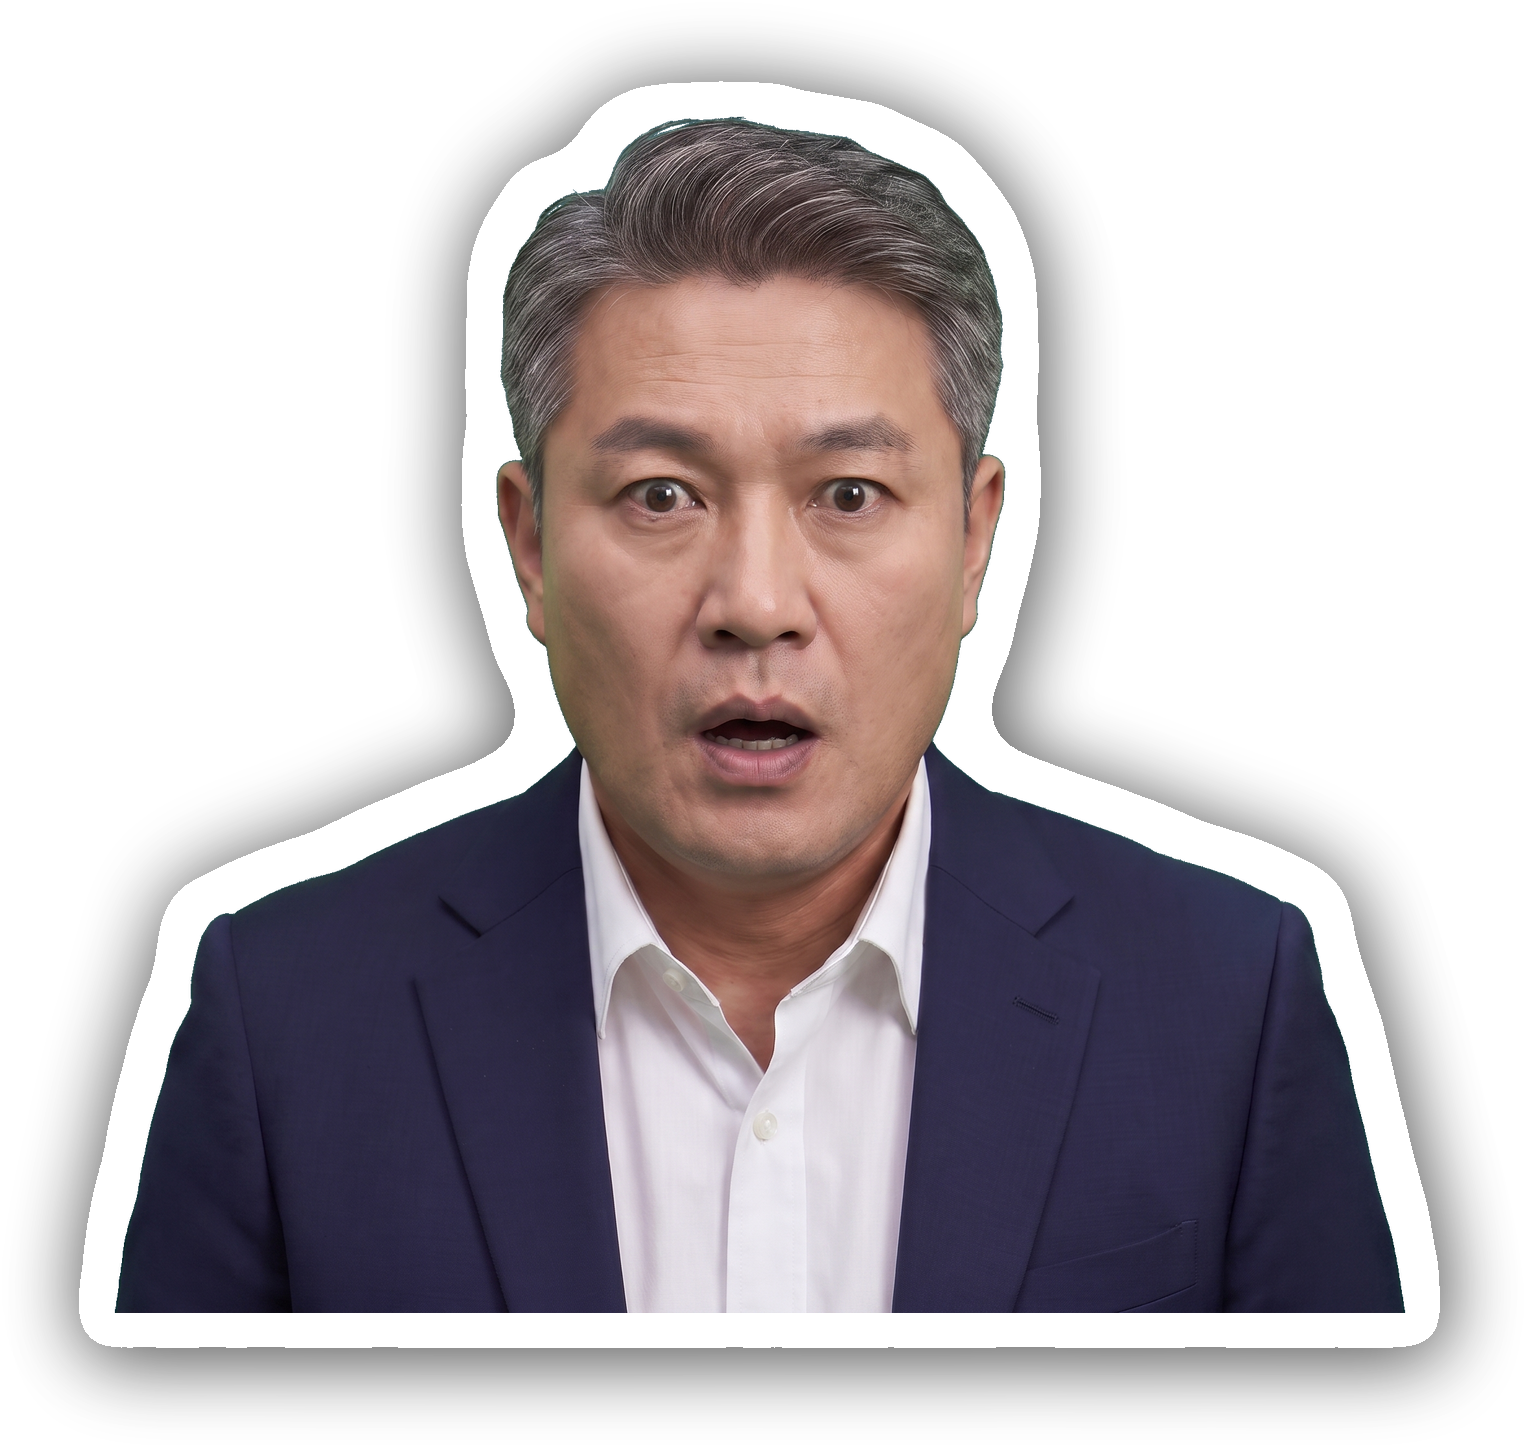
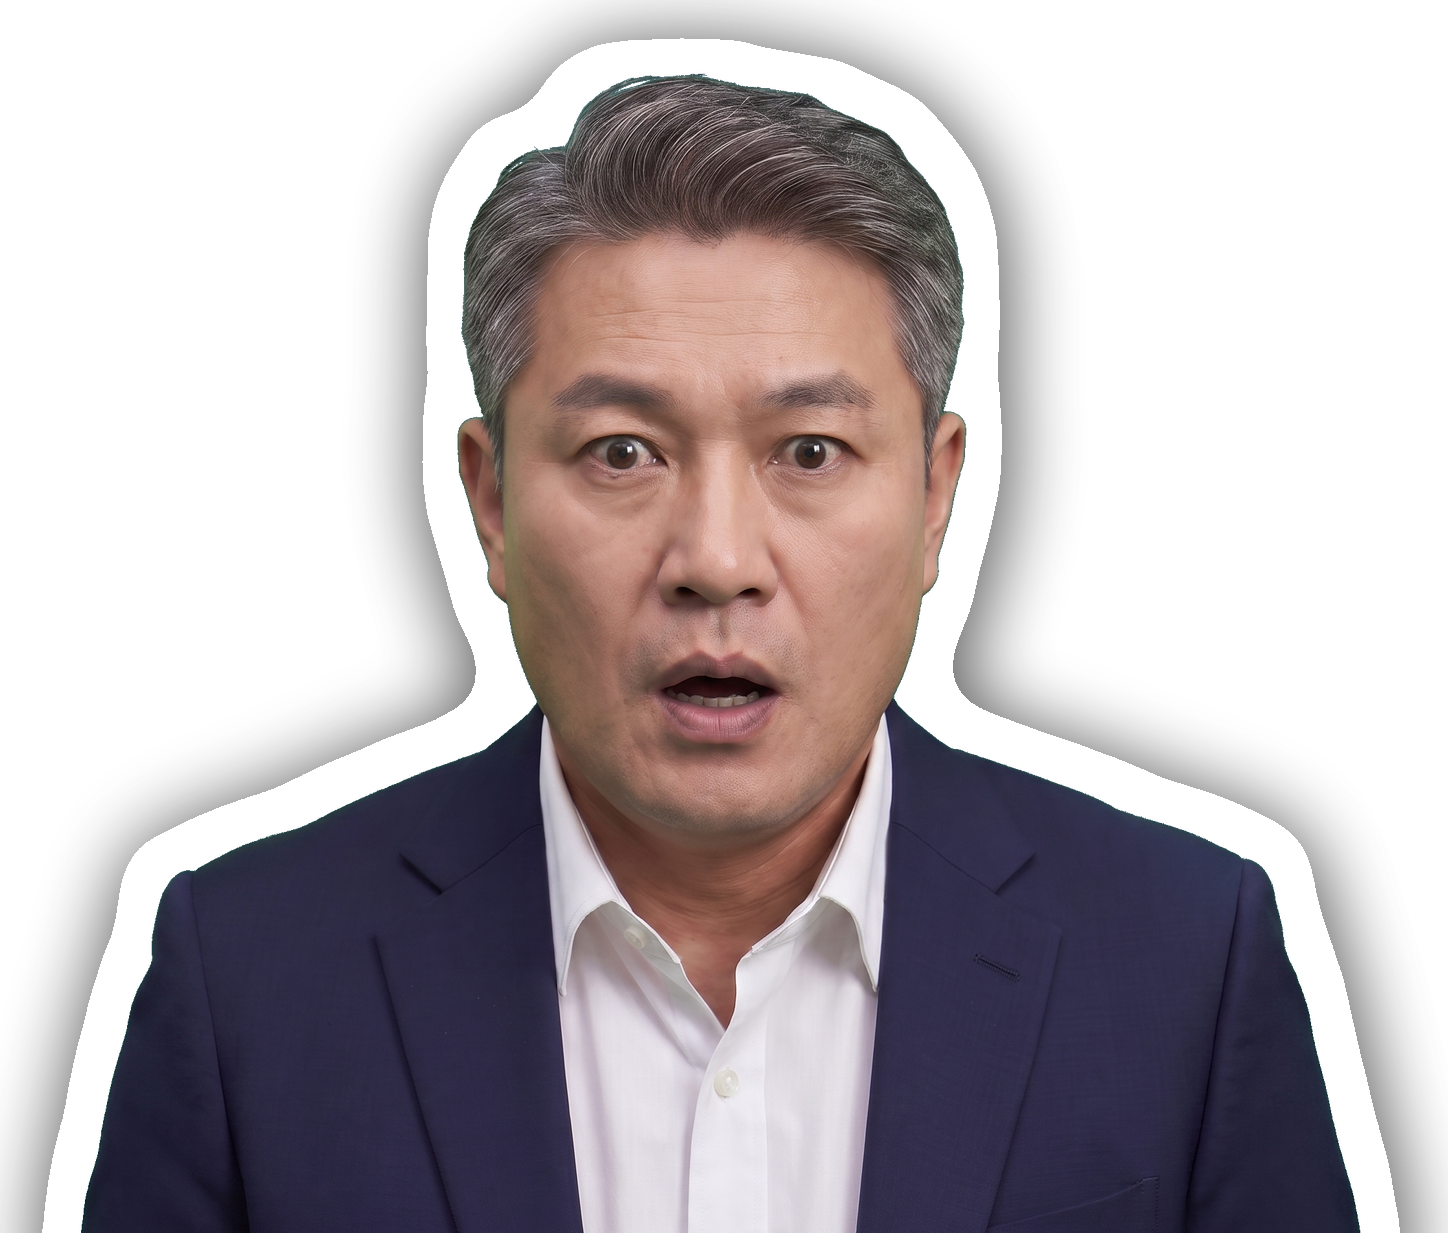
인물 어깨 좌우로 삐죽 튀어나오던 것을 없앤다 (38장 중 26장)
원인
    AI 가 만든 상반신 그림은 아래를 **둥글게 마무리**해 놓았다.
    어깨에서 제일 넓어졌다가 바닥으로 갈수록 다시 좁아진다.
    거기에 흰 테두리가 둘러지면서 좌우 맨 끝이 뾰족한 삼각형으로 튀어나왔다.
    실측 — 상반신 그림 29장이 폭의 15~89% 만큼 나왔다 들어갔다.

    ⚠ src/despike.py 는 예전부터 있었는데 **아무 워크플로도 부르지 않고 있었다.**
       도구만 만들어 두고 연결을 안 해서, 삐죽이가 그대로 영상까지 나갔다.

고친 것
    · despike.flatten_bottom — 아래쪽에서 가장 넓은 줄을 찾아 거기서 수평으로
      자른다. 그 줄이 곧 바닥이 되어 어깨가 제일 넓은 채로 끝난다.
      지우기만 하고 없는 픽셀을 지어내지 않는다.
    · 키의 15% 넘게 잘라야 하면 **아예 손대지 않는다.** 얼굴만 딴 컷은 제일
      넓은 곳이 어깨가 아니라 머리카락이라 자르면 턱·목이 날아간다.
      조금씩 자르면 다시 돌릴 때마다 또 잘리는 문제도 같이 막는다.
    · 전신(full_*)은 제외 — 팔이 넓고 발이 좁은 것이 정상이라 다리가 잘린다.
    · build-assets.yml: 인물 그림을 만든 직후 커밋 전에 다듬는다.
    · produce.yml: 만들기 직전에 한 번 더 — 삐죽이가 영상까지 나가지 않게.

확인
    · 26장 정리, 5장은 삐죽이가 아니어서(얼굴 컷·허리 컷) 손대지 않음
    · 세 번 연달아 돌려 결과가 같음 (26 → 0 → 0)
    · 화면 배치 검사 8항목 0건 · 대본 검사 45통과 0오류
    · 손님이 보낸 그 컷(A1-17)을 다시 그려 삐죽이가 없는 것을 눈으로 확인

Claude-Session: https://claude.ai/code/session_01Tx9MBSofUG9SuyhsNuhdXy

diff --git a/src/despike.py b/src/despike.py
@@ -132,6 +132,71 @@ def despike(sp, scale=4, thin=25, back=29):
     return (out.crop(bb) if bb else out), max(1, len(comps) - 1)
 
 
+# ── 어깨 좌우로 삐죽 튀어나온 것 ────────────────────────────
+BOTTOM_ZONE = 0.30      # 아래 30% 안에서 '가장 넓은 줄' 을 찾는다
+MAX_TRIM = 0.15         # 그래도 키의 15% 넘게는 자르지 않는다 (몸이 뭉텅 날아가면 안 된다)
+MIN_BULGE = 0.03        # 폭 대비 3% 넘게 들어갔을 때만 손댄다
+
+
+def _row_span(mask, y, W):
+    """그 줄의 (왼끝, 오른끝, 폭). 비어 있으면 (0, 0, 0).
+
+    한 줄씩 잘라 getbbox 를 쓴다 — 파이썬으로 픽셀을 하나씩 도는 것보다 훨씬 빠르다."""
+    bb = mask.crop((0, y, W, y + 1)).getbbox()
+    return (bb[0], bb[2] - 1, bb[2] - bb[0]) if bb else (0, 0, 0)
+
+
+def flatten_bottom(sp):
+    """어깨가 **불룩 나왔다가 다시 좁아지며** 생기는 좌우 삐죽이를 없앤다.
+
+    무엇이 문제였나
+        상반신(bust·face) 그림은 가슴께에서 끊긴 컷아웃이라, 아래로 갈수록
+        어깨가 가장 넓은 채로 화면 밖으로 나가야 한다. 그런데 AI 가 만든 그림은
+        아래를 **둥글게 마무리**해 놓았다 — 어깨에서 제일 넓어졌다가 바닥으로
+        갈수록 다시 좁아진다. 거기에 흰 테두리가 둘러지면서 좌우 맨 끝이
+        **뾰족한 삼각형**으로 튀어나와 보인다. 실측: 38장 중 29장이 그랬다.
+
+    어떻게 없애나
+        아래쪽에서 **가장 넓은 줄을 찾아 거기서 수평으로 자른다.**
+        그러면 그 줄이 곧 바닥이 되어 어깨가 제일 넓은 채로 끝난다 —
+        나왔다 들어가는 자리가 아예 없어지므로 삐죽이도 없다.
+        **지우기만 하고 없는 픽셀을 지어내지 않는다.**
+
+    ⚠ 전신(full_*)에는 쓰지 않는다. 전신은 팔이 가장 넓고 발이 좁은 것이
+       당연해서, 같은 규칙을 대면 **다리가 잘린다.** (부르는 쪽에서 거른다)"""
+    a = sp.getchannel("A")
+    W, H = sp.size
+    mask = a.point(lambda v: 255 if v > 40 else 0)
+    bb = mask.getbbox()
+    if not bb:
+        return sp, 0
+    top, bot = bb[1], bb[3] - 1
+    ink = bot - top
+    if ink < 40:
+        return sp, 0
+
+    lo = max(top, bot - int(ink * BOTTOM_ZONE))
+    span = {y: _row_span(mask, y, W) for y in range(lo, bot + 1)}
+    zone = [y for y, s in span.items() if s[2]]
+    if not zone:
+        return sp, 0
+    wy = max(zone, key=lambda y: span[y][2])
+    if (span[wy][2] - span[bot][2]) / W <= MIN_BULGE:
+        return sp, 0                      # 이미 아래로 갈수록 넓다 — 손댈 것 없다
+
+    # ⚠ 너무 많이 잘려야 한다면 **아예 손대지 않는다.** 두 가지 이유다.
+    #    ① 그런 그림은 얼굴만 딴 컷이라, 제일 넓은 곳이 어깨가 아니라 **머리카락**이다.
+    #       거기서 자르면 턱과 목이 날아간다 (실측: F50A/face_anger).
+    #    ② 조금씩 잘라 두면 이 스크립트를 다시 돌릴 때마다 또 잘린다.
+    #       에셋 만들기에서 매번 도는 스크립트라 **몇 번을 돌려도 결과가 같아야** 한다.
+    if bot - wy > ink * MAX_TRIM:
+        return sp, 0
+
+    out = sp.crop((0, 0, W, wy + 1))
+    nb = out.getchannel("A").point(lambda v: 255 if v > 20 else 0).getbbox()
+    return (out.crop(nb) if nb else out), bot - wy
+
+
 def main():
     ap = argparse.ArgumentParser()
     ap.add_argument("--dry", action="store_true", help="지우지 않고 확인만")
@@ -143,17 +208,28 @@ def main():
         want = {s.strip() for s in args.only.split(",") if s.strip()}
         files = [f for f in files if f.parent.name in want]
 
-    total = 0
+    total = flat = 0
     for f in files:
         sp = Image.open(f).convert("RGBA")
         out, n = despike(sp)
-        if not n:
-            continue
-        total += 1
-        print(f"  {f.parent.name}/{f.stem:14} 조각 {n}개 제거  {sp.size} → {out.size}")
-        if not args.dry:
+        if n:
+            total += 1
+            print(f"  {f.parent.name}/{f.stem:14} 조각 {n}개 제거  {sp.size} → {out.size}")
+
+        # ⭐ 전신(full_*)은 건드리지 않는다 — 팔이 넓고 발이 좁은 것이 정상이라
+        #    같은 규칙을 대면 다리가 잘린다.
+        if not f.name.startswith("full"):
+            out2, cut = flatten_bottom(out)
+            if cut:
+                flat += 1
+                print(f"  {f.parent.name}/{f.stem:14} 어깨 삐죽이 — 아래 {cut}줄 잘라냄"
+                      f"  {out.size} → {out2.size}")
+                out = out2
+
+        if out.size != sp.size and not args.dry:
             out.save(f)
-    print(f"\n{total}장에서 어깨 조각을 지웠다 (전체 {len(files)}장)"
+
+    print(f"\n조각 제거 {total}장 · 어깨 삐죽이 제거 {flat}장 (전체 {len(files)}장)"
           + ("   [--dry — 저장하지 않았다]" if args.dry else ""))
     return 0
 
